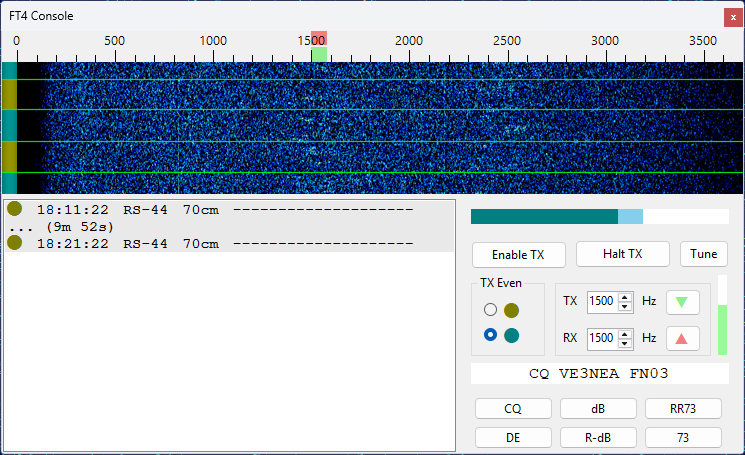
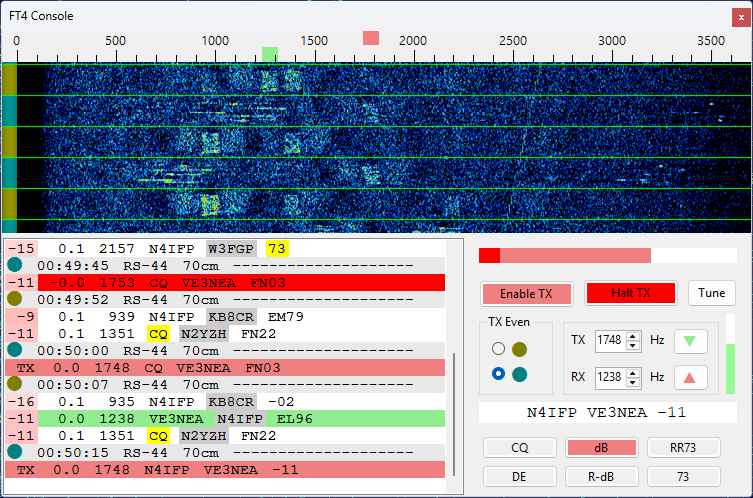
fix ft4 sequencing

diff --git a/SkyRoof/Panels/Ft4ConsolePanel.cs b/SkyRoof/Panels/Ft4ConsolePanel.cs
@@ -494,9 +494,10 @@ namespace SkyRoof
             TxCountdown = 0;
             Sender.Stop();
             QsoInfo qso = GetQsoInfo();
+            bool newQso = Sequencer.LastHisCall != Sequencer.HisCall;
+            if (newQso) ctx.LoqFt4QsoDialog.PopUp(ctx, qso);
             Sequencer.Reset();
             Sender.SetMessage(Sequencer.Message!);
-            ctx.LoqFt4QsoDialog.PopUp(ctx, qso);
           }
         }
 
@@ -537,6 +538,7 @@ namespace SkyRoof
     //--------------------------------------------------------------------------------------------------------------
     //                                             sequencer
     //--------------------------------------------------------------------------------------------------------------
+    // any received message
     private void RxMessageToSequencer(DecodedItem message)
     {
       if (Sender.Mode != SenderMode.Sending) return;
@@ -545,6 +547,7 @@ namespace SkyRoof
       if (Sequencer.ProcessMessage(message, false)) SetTxMessage(Sender.TxOdd);
     }
 
+    // click on someone's message
     private void MessageListWidget_MessageClick(object sender, Ft4MessageEventArgs e)
     {
       if (e.Item.FromMe && ModifierKeys == Keys.Control)
@@ -555,6 +558,7 @@ namespace SkyRoof
           SetTxMessage(!e.Item.Odd);
     }
 
+    // message selection buttons
     private void MessageBtn_Click(object sender, EventArgs e)
     {
       if (!CheckTxEnabled()) return;
@@ -566,6 +570,7 @@ namespace SkyRoof
     private void SetTxMessage(bool odd)
     {
       bool wasSending = Sender.SenderPhase == SendingStage.Sending;
+      bool oddChanged = Sender.TxOdd != odd;
 
       Sender.TxOdd = odd;
 
@@ -582,8 +587,9 @@ namespace SkyRoof
       }
 
       Sender.SetMessage(Sequencer.Message!);
+      if (wasSending && oddChanged) Sender.Stop();
       Sender.StartSending();
-      TxCountdown = ctx.Settings.Ft4Console.Transmit.TxWatchDog * 4;
+      TxCountdown = ctx.Settings.Ft4Console.Transmit.TxWatchDog * NativeFT4Coder.TIME_SLOTS_PER_MINUTE;
 
       TxMessageLabel.Text = Sequencer.Message!;
       UpdateTxButtons();
@@ -591,7 +597,8 @@ namespace SkyRoof
       UpdateControls();
       ctx.MainForm.FrequencyWidget.SetXit(Sender.XitOffset);
 
-      if (wasSending)
+      // changing the message on the fiy, show it in the list
+      if (wasSending && !oddChanged)
       {
         var item = MakeTxItem();
         AddTxMessageToList(item);
@@ -599,28 +606,28 @@ namespace SkyRoof
       }
     }
 
-    public void TestQDateTime()
-    {
-      for (int h = 0; h < 48; h += 6)
-      {
-        var utc = DateTime.UtcNow.Date + TimeSpan.FromHours(h);
+    //public void TestQDateTime()
+    //{
+    //  for (int h = 0; h < 48; h += 6)
+    //  {
+    //    var utc = DateTime.UtcNow.Date + TimeSpan.FromHours(h);
 
-        // c# write
-        long julianDay = (long)Math.Floor(utc.ToOADate()) + 2415019;
-        uint milliseconds = (uint)(utc.TimeOfDay.TotalMilliseconds);
+    //    // c# write
+    //    long julianDay = (long)Math.Floor(utc.ToOADate()) + 2415019;
+    //    uint milliseconds = (uint)(utc.TimeOfDay.TotalMilliseconds);
 
-        // c# original read
-        var date = DateTime.FromOADate(julianDay - 2415018.5).Date;
-        DateTime outUtc = date.AddMilliseconds(milliseconds);
+    //    // c# original read
+    //    var date = DateTime.FromOADate(julianDay - 2415018.5).Date;
+    //    DateTime outUtc = date.AddMilliseconds(milliseconds);
 
-        // Delphi read
-        double delphiDouble = julianDay - 2415019 + milliseconds / 86400000d;
-        DateTime delphiUtc = DateTime.SpecifyKind(DateTime.FromOADate(delphiDouble), DateTimeKind.Unspecified);
+    //    // Delphi read
+    //    double delphiDouble = julianDay - 2415019 + milliseconds / 86400000d;
+    //    DateTime delphiUtc = DateTime.SpecifyKind(DateTime.FromOADate(delphiDouble), DateTimeKind.Unspecified);
 
 
-        Debug.WriteLine($"{utc:yyyy-MM-dd HH:mm}  {julianDay,10}  {milliseconds / 86400000d:F3}  c#: {outUtc:yyyy-MM-dd HH:mm}  Delphi: {delphiDouble:F3}  {delphiUtc:yyyy-MM-dd HH:mm}");
-      }
-    }
+    //    Debug.WriteLine($"{utc:yyyy-MM-dd HH:mm}  {julianDay,10}  {milliseconds / 86400000d:F3}  c#: {outUtc:yyyy-MM-dd HH:mm}  Delphi: {delphiDouble:F3}  {delphiUtc:yyyy-MM-dd HH:mm}");
+    //  }
+    //}
 
 
 

diff --git a/SkyRoof/Widgets/Ft4MessageListWidget.cs b/SkyRoof/Widgets/Ft4MessageListWidget.cs
@@ -221,7 +221,7 @@ namespace SkyRoof
     public void AddMessage(DecodedItem item)
     {
       int index = FindInsertionPoint(item);
-        listBox.Items.Insert(index, item); // todo: remove IF
+      listBox.Items.Insert(index, item);
     }
 
     // sending message 
@@ -386,8 +386,8 @@ namespace SkyRoof
 
     private void ShowSeparatorTooltip(DecodedItem hotItem)
     {
-      string title = (hotItem.Odd ? "Odd (2-nd)" : "Even (1-st)");
-      string tooltip = string.Format("slot {0} {1:%h} hours {1:%m} minutes ago", 
+      string title = hotItem.Odd ? "Odd (2-nd)" : "Even (1-st)";
+      string tooltip = string.Format("slot {0}\n{1:%h} hours {1:%m} minutes ago", 
         hotItem.SlotNumber % NativeFT4Coder.SLOTS_PER_DAY, DateTime.UtcNow - hotItem.Utc);
       ShowTooltip(title, tooltip);
     }

diff --git a/SkyRoof/FT4/Ft4QsoSequencer.cs b/SkyRoof/FT4/Ft4QsoSequencer.cs
@@ -35,7 +35,7 @@ namespace SkyRoof
 
     public void Reset()
     {
-      LastHisCall = HisCall;
+      if (!string.IsNullOrEmpty(HisCall)) LastHisCall = HisCall;
 
       HisCall = null;
       HisSquare = null;
@@ -73,8 +73,6 @@ namespace SkyRoof
 
       GenerateMessages();
 
-      //var oldMessageType = MessageType; 
-
       // I am calling him
       if (item.Parse.DXCallsign != MyCall)
         MessageType = Ft4MessageType.DE;
@@ -86,7 +84,7 @@ namespace SkyRoof
         // the rest: reply with next message type
         MessageType = hisMessageType + 1;
 
-      return true; // MessageType != oldMessageType;
+      return true;
     }
 
     // user clicked on a message type button

diff --git a/SkyRoof/Forms/MainForm.cs b/SkyRoof/Forms/MainForm.cs
@@ -73,7 +73,7 @@ namespace SkyRoof
       VersionChecker.UpdateAvailable += UpdateAvailable_handler;
       VersionChecker.CheckVersionAsync().DoNotAwait();
 
-      ctx.AmsatStatusLoader.GetStatusesAsync();
+      ctx.AmsatStatusLoader.GetStatusesAsync().DoNotAwait();
     }
 
     private void UpdateAvailable_handler(object? sender, EventArgs e)
@@ -85,6 +85,7 @@ namespace SkyRoof
     private void MainForm_FormClosing(object sender, EventArgs e)
     {
       timer.Enabled = false;
+      if (ctx.Slicer != null) ctx.Slicer.Enabled = false;
 
       // save settings
       ctx.Settings.Ui.StoreDockingLayout(DockHost);

diff --git a/SkyRoof/Widgets/FrequencyScale.cs b/SkyRoof/Widgets/FrequencyScale.cs
@@ -87,7 +87,7 @@ namespace SkyRoof
     //----------------------------------------------------------------------------------------------
     //                                        paint
     //----------------------------------------------------------------------------------------------
-    // todo: simplied draw when only the green rect moves
+    // todo: simplify draw when only the green rect moves
     private void FrequencyScale_Paint(object sender, PaintEventArgs e)
     {
       var g = e.Graphics;

diff --git a/SkyRoof/FT4/NativeFT4Coder.cs b/SkyRoof/FT4/NativeFT4Coder.cs
@@ -34,6 +34,7 @@ namespace VE3NEA
 
     public const int MAX_CALL_LENGTH = 12;
     public const long SLOTS_PER_DAY = 11520; // 86400 / 7.5
+    public const int TIME_SLOTS_PER_MINUTE = 4;
 
     [DllImport("ft4_coder", CallingConvention = CallingConvention.Cdecl)]
     public static extern void encode_ft4(byte[] message, ref float txAudioFrequency, float[] audioSamples);

diff --git a/SkyRoof/DSP/Slicer.cs b/SkyRoof/DSP/Slicer.cs
@@ -63,6 +63,7 @@ namespace SkyRoof
 
     public void SetOffset(double offset)
     {
+      if (!Enabled) return;
       this.offset = offset;
       if (CurrentMode != Mode.CW) offset += ModeOffsets[(int)CurrentMode];
       NativeLiquidDsp.nco_crcf_set_frequency(FirstMixer, (float)(Geo.TwoPi * offset / InputRate));

diff --git a/docs/users_guide/ft4_console_panel.md b/docs/users_guide/ft4_console_panel.md
@@ -1,9 +1,104 @@
 # FT4 Console Panel
 
-The FT4 Console provides a streamlined, satellite‑optimized interface for conducting FT4 QSOs via satellites with linear transponders (e.g., RS‑44, AO‑73, JO‑97). While similar results can be obtained by running two instances of WSJT‑X side by side with SkyRoof, the Console removes the need for external programs and simplifies the workflow. It offers satellite‑specific features not available in general‑purpose FT4 software, and an intuitive user interface that improves efficiency and usability.
+FT4 Console provides a streamlined, satellite‑optimized interface for conducting FT4 QSOs via satellites with linear transponders (e.g., RS‑44, AO‑73, JO‑97). While similar results can be obtained by running two instances of WSJT‑X side by side with SkyRoof, the Console removes the need for external programs and simplifies the workflow. It offers satellite‑specific features not available in general‑purpose FT4 software, and an intuitive user interface that improves efficiency and usability.
 
 Be sure to configure the [FT4 Console settings](setting_up_ft4_console.md) before you start using the FT4 Console panel.
 
+## User Interface
 
 ![FT4 Console](../images/ft4_console.png)
 
+### Audio Waterfall Diaplay
+
+Click with the left mouse button on the waterfall or on the frequency scale to set RX and TX audio tones:
+
+- **click** - set the RX tone;
+- **Shift-click** - set the TX tone;
+- **Ctrl-click** - set the RX and TX tones.
+
+Move the mouse cursor over an FT4 signal trace on the waterfall to see sender's callsign. 
+
+
+### Message List
+
+The message list shows transmitted and received messages, including your own messages coming back from the satellite.
+
+The list auto scrolls as the new messages are added. To disable auto-scrolling, for example, when looking at the old messages, just scroll the list up manually. To resume auto-scrolling, scroll it down to the last entry. 
+
+When the mouse cursor is moved over the list, auto-scrolling is temporarily disabled to prevent clicks on a wrong entry. The frozen status is indicated by a blue frame around the list panel. The list un-freezes when you click on an entry or move the cursor out of the list, and when the cursor has not been moving for 2 seconds.
+
+When the  mouse cursor is over a received message, a label on the waterfall display indicates the frequency of the decoded signal and sender's callsign.
+
+Right-click on the message list to open the popup menu. This menu has commands to clear the list and to scroll down to the bottom.
+
+The first column in the received messages is the SNR of the received signal. It is color-coded, with weak signals represented with pale colors and strong ones with bright colors.
+
+Sender's callsigns are color-highlighted based on their status from the logging interface. See
+[QSO Entry](qso_entry_panel.md) for information about callsign colors.
+
+### Control Area
+
+ - **Enable TX button** - enable transmissions;
+
+ - **Halt TX button** - abort current transmission;
+
+ - **Tune button** - transmit a tone for tuning. This button works only when Enable TX is turned off. Similarly, the Enable TX works only when Tune is off;
+
+ - **TX Odd/Even** - select odd or even time slots for transmission;
+ 
+ - **TX #### Hz** - transmitted audio tone;
+
+ - **RX #### Hz** - primary received audio tone;
+
+ - **up and down arrow buttons** - set RX tone equal to TX tone or vice versa. The buttons are color-coded, e.g., if you click on a green arrow, the green maker on the frequency scale moves;
+
+ - **amplitude bar** - shows the peak amplitude of the input audio, see the **FT4 Console Settings** section for details;
+ 
+ - **message text** - the current message to be transmitted;
+ 
+ - **message buttons** - allow you to select the message to transmit. A single click on a button changes the message immediately, even during the transmission. Only the messages applicable in the current stage of the QSO are enabled. The currently selected message is shwon in pink. 
+ 
+ Here are the examples of the messages:
+
+ 
+ #### Run Sequence
+
+ | Button | Example           |
+ |--------|-------------------|
+ | CQ     | CQ VE3NEA FN03    |
+ | dB     | AA0AA VE3NEA -10  |
+ | RR73   | AA0AA VE3NEA RR73 |
+
+#### S&P Sequence
+
+ | Button | Example           |
+ |--------|-------------------|
+ | DE   | AA0AA VE3NEA FN03   |
+ | R-dB | AA0AA VE3NEA R-10   |
+ | 73   | AA0AA VE3NEA 73     |
+ 
+
+ ## Making Contacts
+
+At the time of this writing RS-44 was the best choice for FT4 contacts, so we will use this satellite in the examples below.
+When the satellite rises above the horizon and you start receiving its signals, do a quick check:
+
+- verify your Downlink Manual Correction. This is easy to do with an SDR receiver: the label of the RS-44 CW beacon, shown on the left hand side in the screenshot below, should be aligned with its signal trace on the wideband waterfall display. If there is a mismatch, you can correct it as described in the
+[Frequency Scale](frequency_scale.md) and [Frequency Control](frequency_control.md) sections;
+
+- check that the receiver (SDR or external) is tuned to the frequencies where the FT4 signals are present. Usually FT4 stations operate a few kHz above the lower end of the transponder passband. You can just drag your receiver passband (green rectangle) to the required frequency.
+
+![wide waterfall](../images/ft4_wide_waterfall.png)
+
+Now you can click on Tune or Enable TX to start transmitting. If all is good, you will receive your own signals back from the satellite:
+
+![uplink offset](../images/ft4_uplink_offset.png)
+
+The received signals are often slightly offset from the intended frequency (the pink mark on the scale), as shown above. This should be corrected by adjusting Uplink Manual Correction. You can do this manually in the [Frequency Control](frequency_control.md) widget, or automatically, by **Ctrl-click**'ing on your own received message (with red background by default) in the message list. Automatic correction works only if the error is less than 1 kHz. If it is greater than that, you have to find out the cause. Large frequency errors could be caused by bad SDR calibration, inaccurate system clock, old TLE data, wrong downlink offset correction, etc.
+
+Wait until someone answers your CQ, or call another station by clicking on their message. A single click is enough, no need to double-click. The QSO sequence is followed automatically, and the Save QSO dialog pops up when the QSO is completed:
+
+![save qso](../images/save_ft4_qso.png)
+
+Click on **Save** to save the QSO , or click on **Edit** to load the QSO details in the QSO Entry form. See
+[QSO Entry](qso_entry_panel.md) for information about editing and saving QSO.
